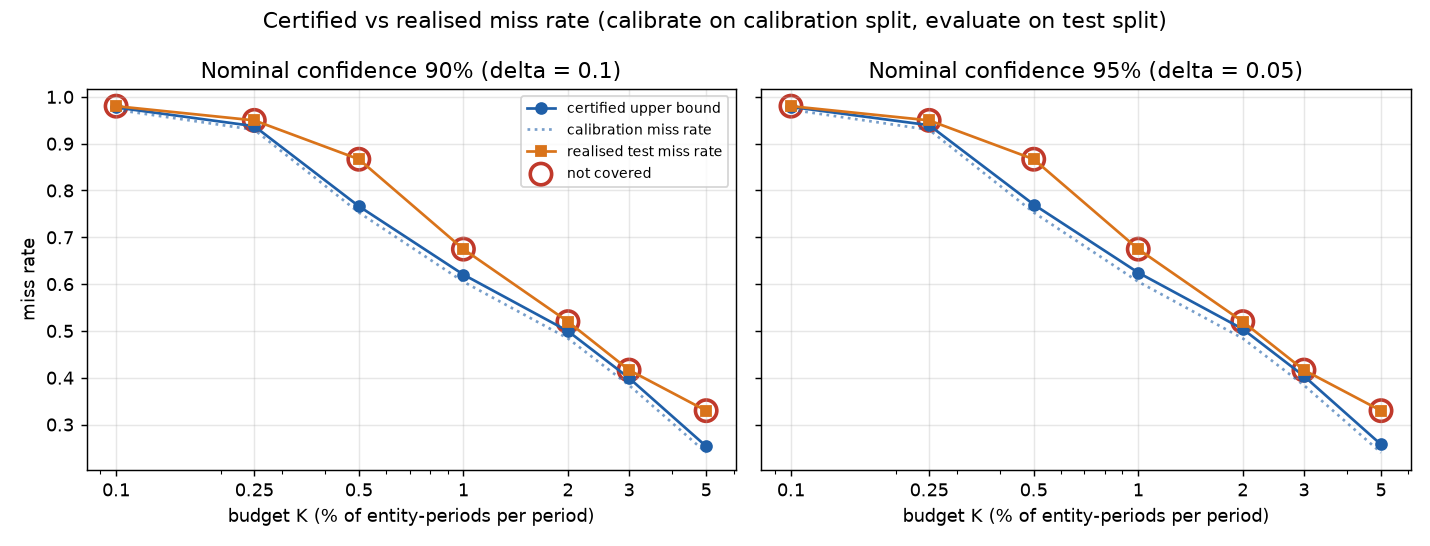
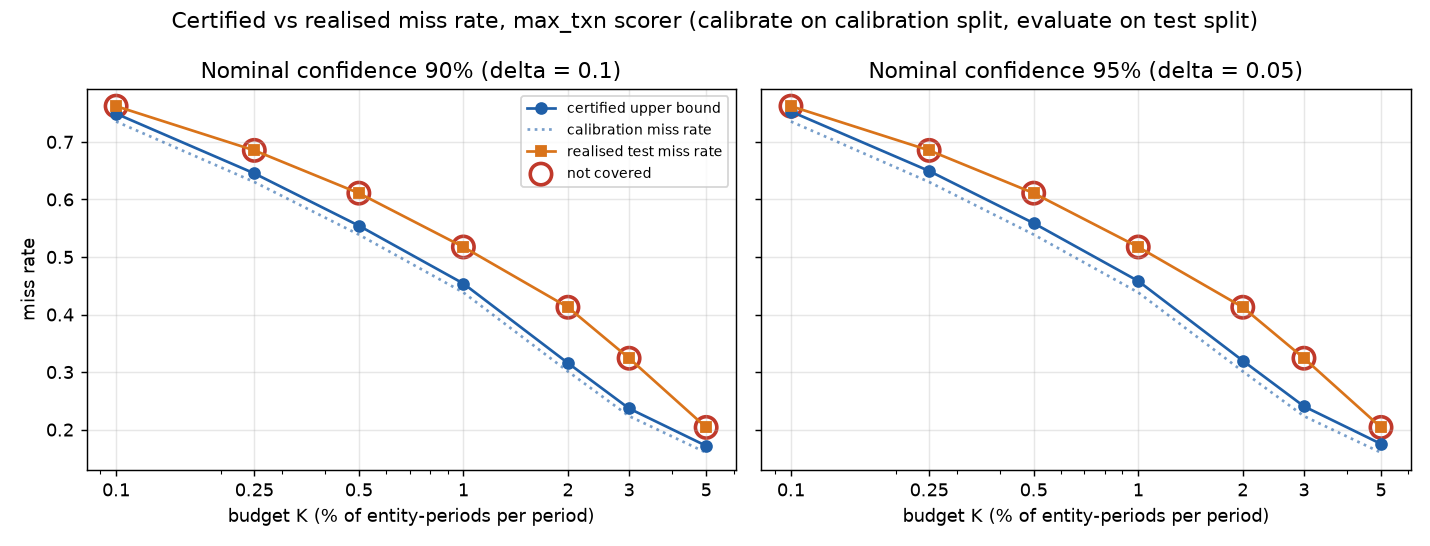
Day 4 step 0: headline scorer chosen on calibration, txn leakage tests, scorer toggle

diff --git a/src/run_budget_curve.py b/src/run_budget_curve.py
@@ -18,7 +18,7 @@ DELTAS = [0.10, 0.05]
 OUT = C.RESULTS / "miss_rate_certified_vs_realised.csv"
 
 
-def build_curve(scores: pd.DataFrame) -> pd.DataFrame:
+def build_curve(scores: pd.DataFrame, scorer: str = "direct") -> pd.DataFrame:
     # `scores` comes from scoring.load_scores(): ranked by margin, residual ties broken by one seeded shuffle
     cal = scores[scores["split"] == "calibration"]
     test = scores[scores["split"] == "test"]
@@ -30,13 +30,13 @@ def build_curve(scores: pd.DataFrame) -> pd.DataFrame:
         for d in DELTAS:
             c = CE.certify(cal["margin"], cal["label"], cal["period"], K, d)
             realised = t_missed / t_pos
-            rows.append(dict(budget_type="fixed_count", K=K, K_frac=f, delta=d, n_cal_pos=c["n_pos"], cal_miss_rate=c["point_miss_rate"],
+            rows.append(dict(scorer=scorer, budget_type="fixed_count", K=K, K_frac=f, delta=d, n_cal_pos=c["n_pos"], cal_miss_rate=c["point_miss_rate"],
                              certified_bound=c["upper_bound"], n_test_pos=t_pos, test_miss_rate_realised=realised,
                              covered=bool(realised <= c["upper_bound"]), recall_at_K_test=1 - realised))
     return pd.DataFrame(rows)
 
 
-def plot(df):
+def plot(df, scorer="primary"):
     fig, axes = plt.subplots(1, 2, figsize=(11, 4.2), sharey=True)
     for ax, d in zip(axes, DELTAS):
         s = df[df["delta"] == d]
@@ -54,18 +54,27 @@ def plot(df):
         ax.grid(alpha=0.3)
     axes[0].set_ylabel("miss rate")
     axes[0].legend(fontsize=8)
-    fig.suptitle("Certified vs realised miss rate (calibrate on calibration split, evaluate on test split)")
+    fig.suptitle(f"Certified vs realised miss rate, {scorer} scorer (calibrate on calibration split, evaluate on test split)")
     fig.tight_layout()
     C.FIGURES.mkdir(parents=True, exist_ok=True)
     fig.savefig(C.FIGURES / "budget_curve.png", dpi=130)
 
 
 if __name__ == "__main__":
-    df = build_curve(scoring.load_scores())
+    import json
+
+    from src.run_h3 import variant_tables
+    primary = json.loads((C.RESULTS / "headline_scorer.json").read_text())["primary"]
+    tables = variant_tables()                       # entity-level direct margin and max-over-transaction margin
+    parts = [build_curve(t.assign(margin=t["score"]), name) for name, t in tables.items()]
+    df = pd.concat(parts, ignore_index=True)
+    df["primary"] = df["scorer"] == primary
+    df = pd.concat([df[df.primary], df[~df.primary]], ignore_index=True)       # primary scorer first
     df.to_csv(OUT, index=False)
-    plot(df)
+    plot(df[df.primary], primary)
+    pd.set_option("display.width", 200)
     print(df.to_string(index=False, float_format=lambda x: f"{x:.4f}"))
-    for d in DELTAS:
-        s = df[df["delta"] == d]
-        print(f"\ndelta={d}: covered K = {s.loc[s.covered, 'K'].tolist()}; "
-              f"NOT covered K = {s.loc[~s.covered, 'K'].tolist()}")
+    for name, g in df.groupby("scorer"):
+        for d in DELTAS:
+            s = g[g["delta"] == d]
+            print(f"\n{name}, delta={d}: covered K = {s.loc[s.covered, 'K'].tolist()}; NOT covered K = {s.loc[~s.covered, 'K'].tolist()}")

diff --git a/src/headline_scorer.py b/src/headline_scorer.py
@@ -1,0 +1,42 @@
+"""Step 0: choose the primary (headline) IBM scorer using CALIBRATION data only.
+
+Rule fixed in advance: the scorer with the higher mean recall over the fixed-count K grid on the calibration split
+is primary; the other stays as a secondary comparison. Test results are not looked at here.
+Writes results/headline_scorer.md and results/headline_scorer.json.
+"""
+import json
+
+import numpy as np
+
+from src import certify as CE
+from src import config as C
+from src.run_h3 import K_FRACS, variant_tables
+
+if __name__ == "__main__":
+    tables = variant_tables()
+    test_avg = tables["direct"].query("split == 'test'").groupby("period").size().mean()   # same K grid as before
+    res = {}
+    for name, sc in tables.items():
+        cal = sc[sc.split == "calibration"]
+        rec = []
+        for f in K_FRACS:
+            k = int(round(f * test_avg))
+            m = CE.missed_flags(cal["score"].to_numpy(), cal["label"].to_numpy(), cal["period"].to_numpy(), k)
+            rec.append(1 - m.mean())
+        res[name] = {"recall_by_K": dict(zip([int(round(f * test_avg)) for f in K_FRACS], np.round(rec, 4).tolist())),
+                     "mean_calibration_recall": float(np.mean(rec))}
+    primary = max(res, key=lambda n: res[n]["mean_calibration_recall"])
+    secondary = [n for n in res if n != primary][0]
+    names = {"direct": "entity-level direct scorer (frozen entity LightGBM margin)",
+             "max_txn": "max-over-transaction scorer (frozen transaction LightGBM, max margin per entity-period)"}
+    lines = ["# Headline scorer (decided on the calibration split only)", "",
+             "Rule (fixed in advance): higher mean recall over the K grid on the CALIBRATION split wins; test results were not used.", "",
+             "| scorer | " + " | ".join(f"K={k}" for k in res["direct"]["recall_by_K"]) + " | mean |",
+             "|---|" + "---|" * (len(res["direct"]["recall_by_K"]) + 1)]
+    for n, r in res.items():
+        lines.append(f"| {n} | " + " | ".join(f"{v:.3f}" for v in r["recall_by_K"].values()) + f" | {r['mean_calibration_recall']:.4f} |")
+    lines += ["", f"**Decision: primary = {primary}** ({names[primary]}); secondary = {secondary}. "
+              "All IBM results from here on use the primary scorer; the other is kept as a comparison."]
+    (C.RESULTS / "headline_scorer.md").write_text("\n".join(lines) + "\n")
+    (C.RESULTS / "headline_scorer.json").write_text(json.dumps({"primary": primary, "secondary": secondary, **res}, indent=2))
+    print("\n".join(lines))

diff --git a/tests/test_txn_leakage.py b/tests/test_txn_leakage.py
@@ -1,0 +1,44 @@
+"""Leakage tests for the transaction-level scorer's FEATURES (real data, one period)."""
+import numpy as np
+import pandas as pd
+import pytest
+
+from src import config as C
+from src import features as F
+from src import transaction_model as TM
+
+PERIOD = 14
+
+
+@pytest.fixture(scope="module")
+def ctx():
+    tx, ent, stats, t0, currencies = TM.load_context()
+    sample = tx[tx.period == PERIOD].sample(4000, random_state=0)
+    accts = np.unique(np.r_[sample.from_key, sample.to_key])
+    panel = pd.DataFrame({"acct_key": accts, "period": np.int16(PERIOD)})
+    return tx, ent, stats, t0, currencies, sample, panel
+
+
+def _features(sample, tx_hist, panel, stats, t0, currencies):
+    ent = F.compute_features(tx_hist, panel, stats).set_index(["acct_key", "period"])
+    return TM.txn_features(sample.drop(columns=["is_laundering"], errors="ignore"), ent, stats, t0, currencies)
+
+
+def test_features_do_not_change_if_later_transactions_are_deleted(ctx):
+    tx, ent, stats, t0, currencies, sample, panel = ctx
+    full = _features(sample, tx, panel, stats, t0, currencies)
+    trunc = _features(sample, tx[tx.period <= PERIOD], panel, stats, t0, currencies)
+    pd.testing.assert_frame_equal(full, trunc)
+    # and they match the features the model was actually trained/scored with (precomputed entity table)
+    stored = TM.txn_features(sample.drop(columns=["is_laundering"]), ent, stats, t0, currencies)
+    pd.testing.assert_frame_equal(full, stored, rtol=1e-4, atol=1e-5)
+
+
+def test_features_do_not_change_if_label_is_shuffled_or_removed(ctx):
+    tx, ent, stats, t0, currencies, sample, panel = ctx
+    base = _features(sample, tx, panel, stats, t0, currencies)
+    shuffled = tx.assign(is_laundering=np.random.default_rng(1).permutation(tx["is_laundering"].to_numpy()))
+    removed = tx.drop(columns=["is_laundering"])
+    pd.testing.assert_frame_equal(base, _features(sample.assign(is_laundering=1), shuffled, panel, stats, t0, currencies))
+    pd.testing.assert_frame_equal(base, _features(sample.drop(columns=["is_laundering"]), removed, panel, stats, t0, currencies))
+    assert not any("laundering" in c or "typology" in c for c in base.columns)

diff --git a/app/app.py b/app/app.py
@@ -43,7 +43,10 @@ def miss_rate_panel():
     df = read("miss_rate_certified_vs_realised.csv")
     if df is None:
         return
-    d = at_delta(df).sort_values("K")
+    scorers = list(dict.fromkeys(df["scorer"]))                      # primary scorer is written first
+    names = {"max_txn": "max-over-transaction", "direct": "entity-level direct"}
+    scorer = st.sidebar.selectbox("Scorer", scorers, format_func=lambda s: names.get(s, s) + (" (primary)" if s == scorers[0] else ""))
+    d = at_delta(df[df["scorer"] == scorer]).sort_values("K")
     row = nearest(d).iloc[0]
     long = d.melt(id_vars=["K"], value_vars=["certified_bound", "test_miss_rate_realised"],
                   var_name="series", value_name="miss_rate")

diff --git a/README.md b/README.md
@@ -44,3 +44,7 @@ The gate specification was corrected after a first run, because comparing a boun
 - **H1: group-conditional certificates (`src/run_h1.py`).** Typology is known only for positives, so per-typology thresholds cannot be built (a threshold needs a typology for every entity, negatives included). The reviewed set is the usual top-K by margin per period; each typology group (8 plus UNATTRIBUTED) is certified with Clopper-Pearson on its own calibration positives and compared with its realised test miss rate, and the pooled bound is checked against each group. An exchangeable protocol (pool the group's calibration and test positives, 1,000 random re-splits) separates sampling variation from temporal drift. Groups with fewer than 30 calibration positives are flagged `low_n`, not dropped.
 - **H3 (reduced): direct vs max-over-transaction (`src/transaction_model.py`, `src/run_h3.py`).** The learned aggregator was cut under the schedule fallback; only the simple aggregation is compared. A transaction-level LightGBM (trained on train-split transactions: all positives plus 10% of negatives; the transaction's own attributes plus both endpoints' lookback-only features; one fixed hyperparameter set) is aggregated to the entity-period by taking the maximum transaction margin, and the same entity-level certificate is applied with an exchangeable control.
 - **Elliptic spike (H4, `src/elliptic_spike.py`).** Labelled nodes only, native 165 features, train steps 1-24, calibration 25-34, evaluation 35-49, fixed-parameter LightGBM ranked by margin, fraction budget K_t = ceil(q * labelled nodes in step t) at q = 10% and 20% because step sizes vary widely. Per-step coverage is checked against the bound from the calibration steps, with the step-43 shutdown marked, plus an exchangeable control on steps 25-49. No ACI and no tuning.
+
+## Day 4: headline scorer
+
+The primary IBM scorer was chosen on the calibration split only (mean recall over the K grid; see `results/headline_scorer.md`): the **max-over-transaction** score (frozen transaction LightGBM, maximum margin over the entity's transactions in the period). The entity-level direct score stays as the secondary comparison. `results/miss_rate_certified_vs_realised.csv` now has a `scorer` column (primary rows first) and the dashboard defaults to the primary scorer with the other as a toggle. The transaction model's features pass the same leakage tests as the entity features (`tests/test_txn_leakage.py`): they do not change when later transactions are deleted or the label is shuffled or removed. Earlier diagnostics (shift diagnostic, fraction-budget arm, H1) were run on the direct scorer.

diff --git a/results/headline_scorer.md b/results/headline_scorer.md
@@ -1,0 +1,10 @@
+# Headline scorer (decided on the calibration split only)
+
+Rule (fixed in advance): higher mean recall over the K grid on the CALIBRATION split wins; test results were not used.
+
+| scorer | K=155 | K=388 | K=776 | K=1552 | K=3104 | K=4657 | K=7761 | mean |
+|---|---|---|---|---|---|---|---|---|
+| direct | 0.027 | 0.070 | 0.247 | 0.395 | 0.516 | 0.616 | 0.760 | 0.3759 |
+| max_txn | 0.265 | 0.370 | 0.461 | 0.562 | 0.699 | 0.777 | 0.840 | 0.5675 |
+
+**Decision: primary = max_txn** (max-over-transaction scorer (frozen transaction LightGBM, max margin per entity-period)); secondary = direct. All IBM results from here on use the primary scorer; the other is kept as a comparison.
